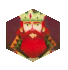
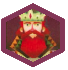
Mathis s'en va !
- Ajout de nouvelles images
- Résolution problème coups IAAléatoire

Changed region(s): [[0.0, 0.0286, 0.9706, 0.9714]]

diff --git a/src/Vue/PlateauGraphique.java b/src/Vue/PlateauGraphique.java
@@ -97,8 +97,6 @@ public class PlateauGraphique extends JPanel implements Observateur {
         afficherCartesAutreJoueur();
         afficherZoneCartesJouees();
         afficherCartesJoueurCourant();
-
-        tracerPrevisualisation();
     }
 
     // =======================
@@ -279,8 +277,8 @@ public class PlateauGraphique extends JPanel implements Observateur {
         imagePlateauDroit = chargeImage("droite");
         imagePlateauGauche = chargeImage("gauche");
 
-        imageJetonGrandeCouronne = chargeImage("jeton_Grande_Couronne");
-        imageJetonPetiteCouronne = chargeImage("jeton_Petite_Couronne");
+        imageJetonGrandeCouronne = chargeImage("Jeton_Grande_CouronneV2");
+        imageJetonPetiteCouronne = chargeImage("Jeton_Petite_CouronneV2");
 
         imageJetonGardeGauche = chargeImage("jeton_Garde_Gauche");
         imageJetonGardeDroit = chargeImage("jeton_Garde_Droit");
@@ -291,7 +289,7 @@ public class PlateauGraphique extends JPanel implements Observateur {
         imageCarteErreur = chargeImage("carteErreur");
         imageCarteVide = chargeImage("carteVide");
 
-        imageDosCarte = chargeImage("dosCarte");
+        imageDosCarte = chargeImage("Dos_2");
 
         imageCarteRoi = chargeImage("Roi_1");
 
@@ -327,10 +325,6 @@ public class PlateauGraphique extends JPanel implements Observateur {
         }
         dessinable.drawRect(x * debutZoneCartesX(), y * debutZoneCartesY(), largeurCarte(), hauteurCarte());
         System.out.println("x = " + x * debutZoneCartesX() + ", y = " + debutZoneCartesY() + ", larg = " + largeurCarte() + ", haut = " + hauteurCarte());
-    }
-
-    public void tracerPrevisualisation() {
-        tracerRectangle(jeu.previsualisationX(), jeu.previsualisationY(), jeu.largeurPrevisualisation(), jeu.hauteurPrevisualisation());
     }
 
     public boolean masquerPrevisualisation() {

diff --git a/src/Controleur/ControleurMediateur.java b/src/Controleur/ControleurMediateur.java
@@ -28,8 +28,7 @@ public class ControleurMediateur implements CollecteurEvenements {
     // =================
     // ===== TIMER =====
     // =================
-    static final int TEMPS_ATTENTE = 50;
-    static final int LENTEUR_ATTENTE = 50;
+    static final int LENTEUR_ATTENTE = 30;
     
     // ====================
     // ===== ETAT JEU =====
@@ -43,7 +42,7 @@ public class ControleurMediateur implements CollecteurEvenements {
     int[] typeJoueur;
     int joueurCourant;
 
-    int decompteTimer;
+    int decompteTimer = LENTEUR_ATTENTE;
     int carteActuelle; // Quelle carte est choisie actuellement
 
     int valeurLargeurPrevisualisation = 0;
@@ -68,8 +67,8 @@ public class ControleurMediateur implements CollecteurEvenements {
             joueurs[i][JOUEUR_IAEXPERTE] = new JoueurIAExperte(i, jeu);
         }
 
-        choixTypeJoueur(JOUEUR_GAUCHE, JOUEUR_HUMAIN);
-        choixTypeJoueur(JOUEUR_DROIT, JOUEUR_HUMAIN);
+        choixTypeJoueur(JOUEUR_GAUCHE, JOUEUR_IAALEATOIRE);
+        choixTypeJoueur(JOUEUR_DROIT, JOUEUR_IAALEATOIRE);
         
         carteActuelle = 8;
         joueurCourant = jeu.joueurCourant();
